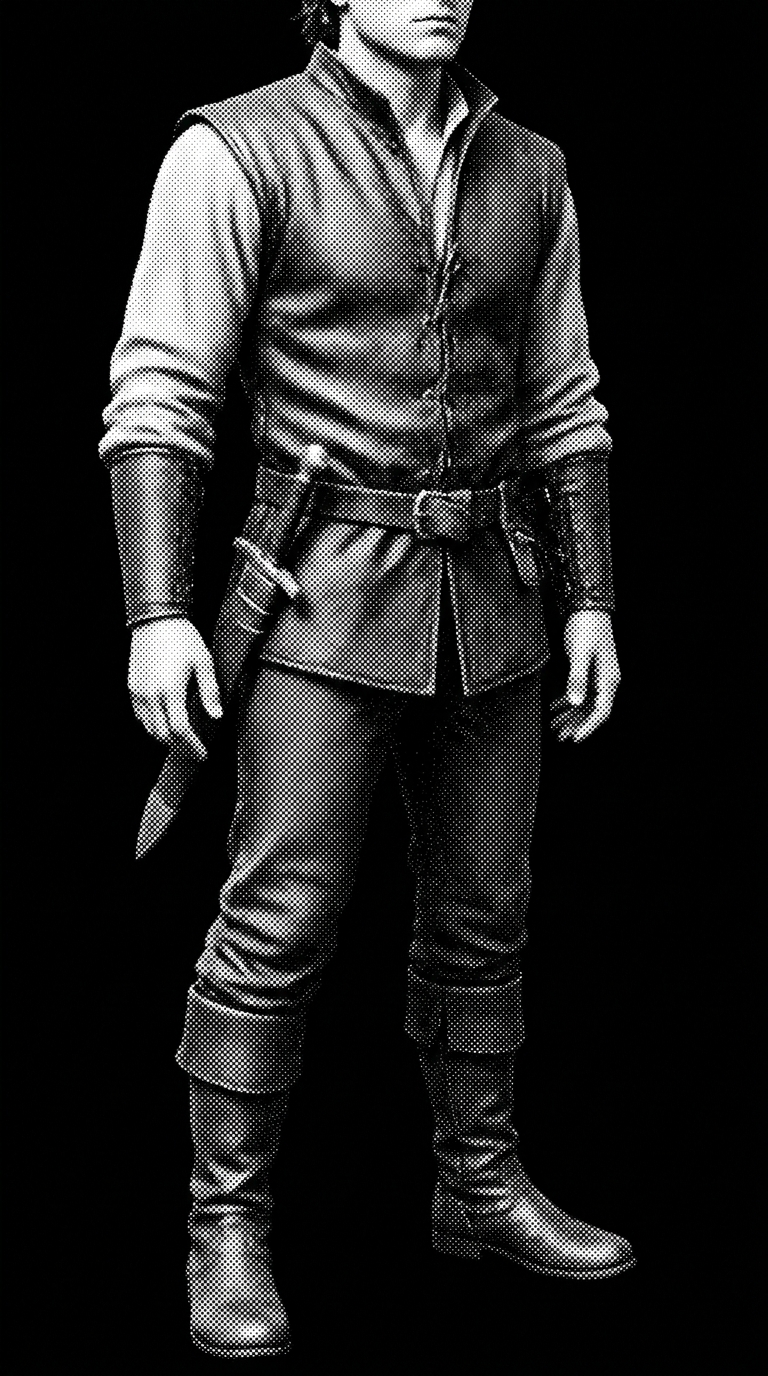
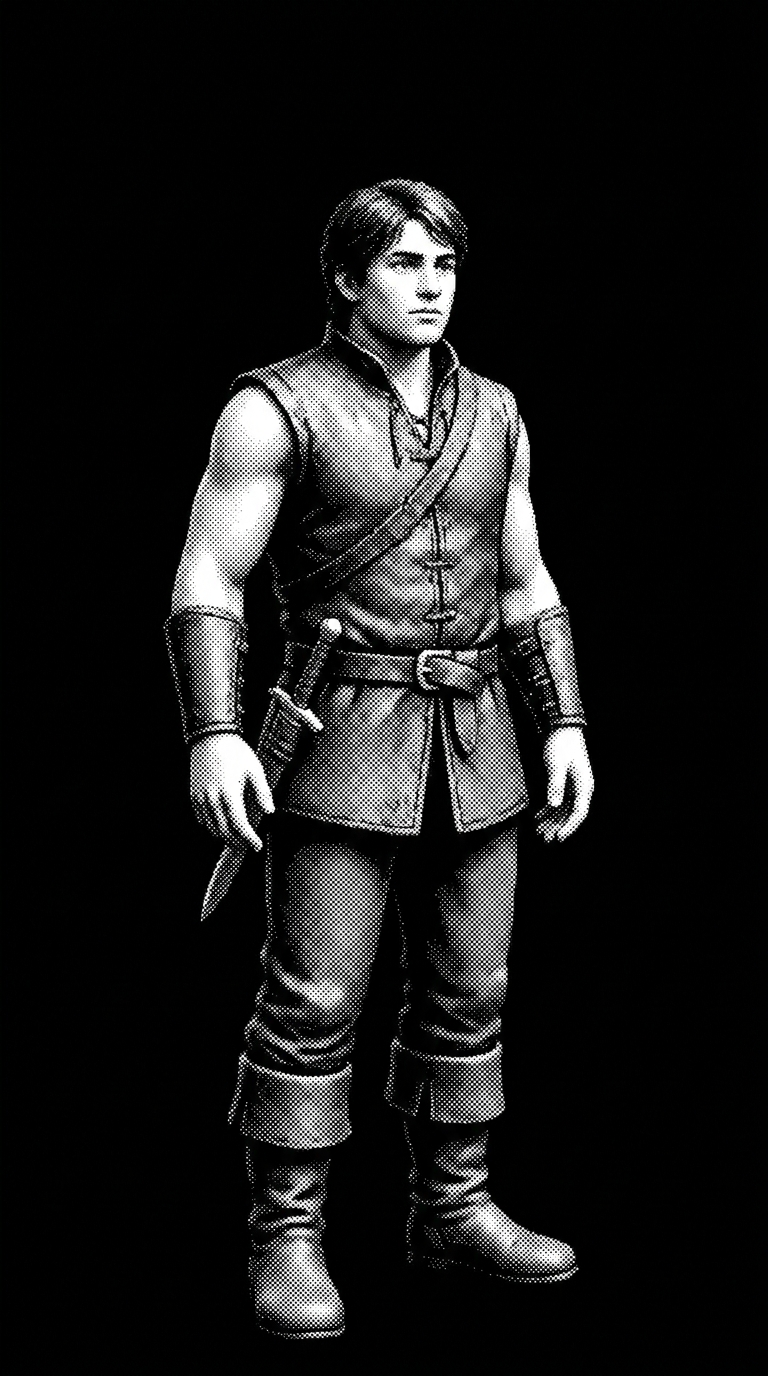
0.39.0: an elf looks like an elf — race-aware portraits, and the leather head uncut
Six elven wardrobes (rags to aegis): tall, willow-thin, long pointed
ears, elf-cut dress; the renderer picks portrait_{race}_{tier} when the
art exists and falls back to the shared set. The generic leather
portrait regenerated with headroom (its head touched row 0), and the
portrait style prompt now demands clear black above the hair. Two
XP tests pinned to threat ×1 — the daily seeded draw can be a runt
archetype, which is threat pricing at work, not what those tests test.

diff --git a/tools/generate_030_art.py b/tools/generate_030_art.py
@@ -50,8 +50,10 @@ PORTRAIT_STYLE = (
     "GRADIENTS of dither density, never by outlines. NO hard contour "
     "lines, no cartoon linework, no cel shading, no ink outlines "
     "anywhere: forms emerge from light and shadow alone, soft edges "
-    "dissolving into dither. ONE standing human figure fills the frame "
-    "top to bottom — head near the top edge, boots at the bottom edge, "
+    "dissolving into dither. ONE standing human figure nearly fills "
+    "the frame — the WHOLE head fully inside the frame with a clear "
+    "margin of pure black above the hair (never touching or crossing "
+    "the top edge), boots at the bottom edge, "
     "facing the viewer, arms at the sides, weight square. Volumetric "
     "shading: one soft key light from the top-left rolling across "
     "every rounded form, deep core shadows. The background is pure "
@@ -84,13 +86,50 @@ PORTRAIT_JOBS = {
         "a champion in ornate master-forged aegis plate, crowned helm "
         "under one arm, filigree glowing faintly along every edge in "
         "soft gradient halos, a great cloak — the top of the ladder."),
-    # 031: the lodge has a face — Wick, the keeper
+    # the lodge has a face — Wick, the keeper
     "portrait_wick": (
         "a stout old innkeeper with a magnificent braided beard, a "
         "leather apron over a rolled-sleeve shirt, one sleeve pinned "
         "flat over a missing left arm, a tankard in his remaining "
         "hand, laugh lines and tired kind eyes — a retired climber "
         "who runs the lodge now."),
+}
+
+# an elf is not a human in a costume — the whole silhouette changes:
+# taller, thinner, long ears, and a wardrobe cut the elven way.
+ELF = (
+    "The figure is unmistakably an ELF: very tall and willow-thin, "
+    "elongated graceful proportions, LONG POINTED EARS sweeping up "
+    "through long fine hair, high angular cheekbones, ageless sharp "
+    "features. ")
+
+ELF_JOBS = {
+    "portrait_elf_rags": (
+        "a fresh elf climber in a patched travel tunic falling to the "
+        "thigh over close leggings, wrapped feet, a woven-cord belt, "
+        "chin high — poor but never graceless."),
+    "portrait_elf_leather": (
+        "an elf climber in a leaf-tooled leather jerkin cut long and "
+        "slim, vine-stamped bracers, soft high boots to the knee, a "
+        "slender curved blade on the hip — forest kit, first steel."),
+    "portrait_elf_chain": (
+        "an elf climber in fine elven mail of tiny silver rings that "
+        "falls like cloth over a high-collared under-robe, long "
+        "gauntlets, a narrow sash — the mail shimmering as dithered "
+        "sparkle."),
+    "portrait_elf_scale": (
+        "an elf climber in overlapping leaf-shaped scales trailing "
+        "into a long split coat, a high collar, slim plated boots, a "
+        "light cloak pinned at one shoulder — every scale a leaf."),
+    "portrait_elf_plate": (
+        "an elf climber in fluted elven plate drawn to slender lines, "
+        "crescent-curved pauldrons, visorless high helm under one arm, "
+        "a long thin sword point-down in one fist — a poised sentinel."),
+    "portrait_elf_aegis": (
+        "an elf champion in master-forged elven aegis plate traced "
+        "with filigree vines glowing faintly along every edge, a "
+        "circlet on the brow, a great flowing cloak — the summit of "
+        "elven craft."),
 }
 
 # rooms regenerated tall (320x200) — prompts are the proven ones from the
@@ -168,6 +207,10 @@ def _jobs() -> dict[str, tuple[str, tuple[int, int], str, str]]:
     for slug, prompt in PORTRAIT_JOBS.items():
         jobs[slug] = (PORTRAIT_STYLE + prompt, (100, 200), PORTRAITS,
                       TEXT_INK)
+    for slug, prompt in ELF_JOBS.items():
+        jobs[slug] = (PORTRAIT_STYLE.replace("human figure",
+                                             "elven figure")
+                      + ELF + prompt, (100, 200), PORTRAITS, TEXT_INK)
     for slug in ROOM_SLUGS:
         prompt, tint = gb.SCENES[slug]
         jobs[slug] = (gb.STYLE + prompt, (320, 200), BANNERS, tint)

diff --git a/plugin_linear_ascent/render.py b/plugin_linear_ascent/render.py
@@ -608,17 +608,24 @@ _TIP_DEF = ("DEF — your total defense: shield, armor and honing. "
 def _portrait_slug(scene: Scene) -> str:
     """rags → leather → chain → scale → plate → aegis, resolved from the
     equipped armour on the pack strip — the renderer never opens the
-    player doc, it reads the scene it was handed."""
+    player doc, it reads the scene it was handed. A race that has its
+    own wardrobe (portrait_elf_*_100x200.png) wears it; anyone else
+    keeps the shared human set."""
     tier = 0
     for cell in scene.inventory or []:
         if cell.get("kind") == "armor" and cell.get("equipped"):
             g = economy.FORGE.get(cell.get("slug", ""))
             tier = g.tier if g else 0
             break
-    for floor_t, slug in _PORTRAIT_TIERS:
+    slug = "rags"
+    for floor_t, s in _PORTRAIT_TIERS:
         if tier >= floor_t:
-            return slug
-    return "rags"
+            slug = s
+            break
+    race = getattr(scene.meters, "race", "") or ""
+    if race and _portrait_data_url(f"{race}_{slug}"):
+        return f"{race}_{slug}"
+    return slug
 
 
 @lru_cache(maxsize=None)

diff --git a/tests/test_engine.py b/tests/test_engine.py
@@ -208,6 +208,8 @@ def test_fade_no_longer_punishes_overleveling_on_frontier():
     choose(p, "hunt")
     p["encounter"]["range"] = "close"        # 002: skip the crossing
     p["encounter"]["hp"] = 1                 # next hit kills
+    p["encounter"]["traits"] = []            # 025: pin threat ×1 — the
+    # daily draw may be a low-pay archetype, and this test is about fade
     xp_before = p["xp"]
     gold_before = p["gold"]
     choose(p, "attack")
@@ -406,6 +408,8 @@ def test_elf_learns_faster():
     choose(p, "hunt")
     p["encounter"]["range"] = "close"        # 002: skip the crossing
     p["encounter"]["hp"] = 1
+    p["encounter"]["traits"] = []            # 025: pin threat ×1 — the
+    # daily draw may be a low-pay archetype, and this test is about race
     choose(p, "attack")
     # base 4 ±25% then ×1.05: minimum possible is round(round(4·0.75)·1.05)
     assert p["xp"] >= round(round(4 * 0.75) * 1.05)

diff --git a/plugin_linear_ascent/version.py b/plugin_linear_ascent/version.py
@@ -1,1 +1,1 @@
-VERSION = "0.38.0"
+VERSION = "0.39.0"
